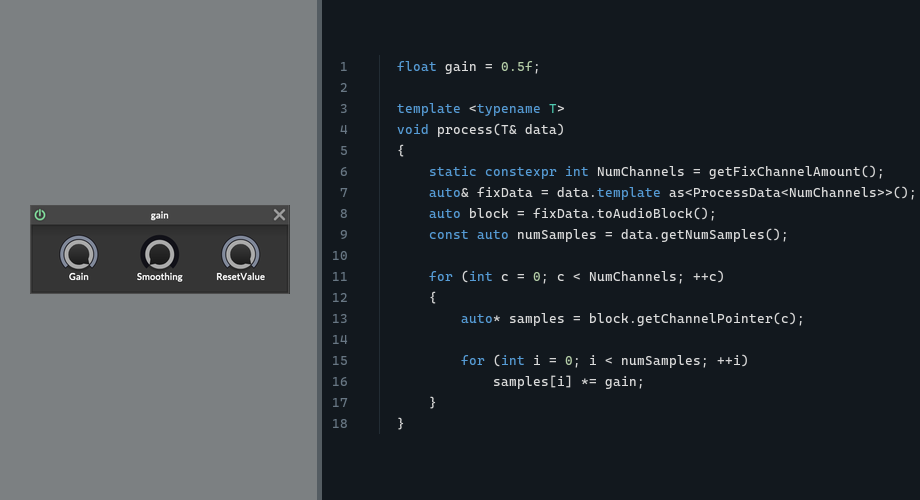
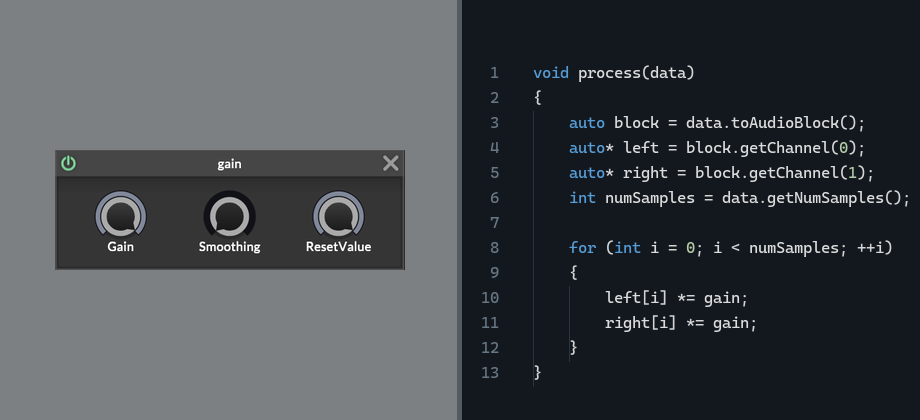
Simplify HISE gain C++ code graphic

diff --git a/scripts/render_hise_gain_node_cpp_code.py b/scripts/render_hise_gain_node_cpp_code.py
@@ -11,22 +11,17 @@ SOURCE = ROOT / "articles" / "hise-dsp-buffer" / "assets" / "hise-gain-node-sour
 OUTPUT = ROOT / "articles" / "hise-dsp-buffer" / "renders" / "hise-gain-node-cpp-code.png"
 
 
-CODE = """float gain = 0.5f;
-
-template <typename T>
-void process(T& data)
+CODE = """void process(data)
 {
-    static constexpr int NumChannels = getFixChannelAmount();
-    auto& fixData = data.template as<ProcessData<NumChannels>>();
-    auto block = fixData.toAudioBlock();
-    const auto numSamples = data.getNumSamples();
+    auto block = data.toAudioBlock();
+    auto* left = block.getChannel(0);
+    auto* right = block.getChannel(1);
+    int numSamples = data.getNumSamples();
 
-    for (int c = 0; c < NumChannels; ++c)
+    for (int i = 0; i < numSamples; ++i)
     {
-        auto* samples = block.getChannelPointer(c);
-
-        for (int i = 0; i < numSamples; ++i)
-            samples[i] *= gain;
+        left[i] *= gain;
+        right[i] *= gain;
     }
 }"""
 
@@ -67,14 +62,36 @@ def token_color(token: Token) -> tuple[int, int, int]:
 
 
 def draw_code(draw: ImageDraw.ImageDraw, x: int, y: int, code: str) -> None:
-    code_font = font(13)
-    line_font = font(13)
-    line_height = 21
-    gutter_width = 37
-    guide_x = x + gutter_width + 10
-    text_x = guide_x + 18
+    code_font = font(16)
+    line_font = font(16)
+    line_height = 25
+    gutter_width = 33
+    text_x = x + gutter_width + 19
+    char_width = draw.textlength(" ", font=code_font)
 
     lines = code.splitlines()
+    indent_guides: list[tuple[int, int, int]] = []
+    stack: list[tuple[int, int]] = []
+    for index, line in enumerate(lines):
+        leading_spaces = len(line) - len(line.lstrip(" "))
+        if "}" in line and stack:
+            guide_x, start_index = stack.pop()
+            indent_guides.append((guide_x, start_index, index))
+        if "{" in line:
+            stack.append((round(text_x + leading_spaces * char_width), index))
+
+    for guide_x, start_index, end_index in indent_guides:
+        draw.line(
+            (
+                guide_x,
+                y + start_index * line_height + line_height - 2,
+                guide_x,
+                y + end_index * line_height + line_height - 2,
+            ),
+            fill=(42, 52, 60),
+            width=1,
+        )
+
     for index, line in enumerate(lines, start=1):
         baseline_y = y + (index - 1) * line_height
         draw.text(
@@ -83,11 +100,6 @@ def draw_code(draw: ImageDraw.ImageDraw, x: int, y: int, code: str) -> None:
             font=line_font,
             fill=(104, 119, 132),
             anchor=None,
-        )
-        draw.line(
-            (guide_x, baseline_y - 3, guide_x, baseline_y + line_height - 3),
-            fill=(34, 44, 52),
-            width=1,
         )
 
         cursor_x = text_x
@@ -101,9 +113,9 @@ def draw_code(draw: ImageDraw.ImageDraw, x: int, y: int, code: str) -> None:
 
 def main() -> None:
     width = 920
-    height = 500
-    divider_x = 320
-    side_padding = 30
+    height = 420
+    divider_x = 460
+    side_padding = 55
 
     image = Image.new("RGB", (width, height), (124, 128, 130))
     draw = ImageDraw.Draw(image)
@@ -120,7 +132,7 @@ def main() -> None:
     node_y = (height - node_height) // 2
     image.paste(node, (node_x, node_y))
 
-    draw_code(draw, divider_x + 12, 58, CODE)
+    draw_code(draw, divider_x + 21, 63, CODE)
 
     OUTPUT.parent.mkdir(parents=True, exist_ok=True)
     image.save(OUTPUT)